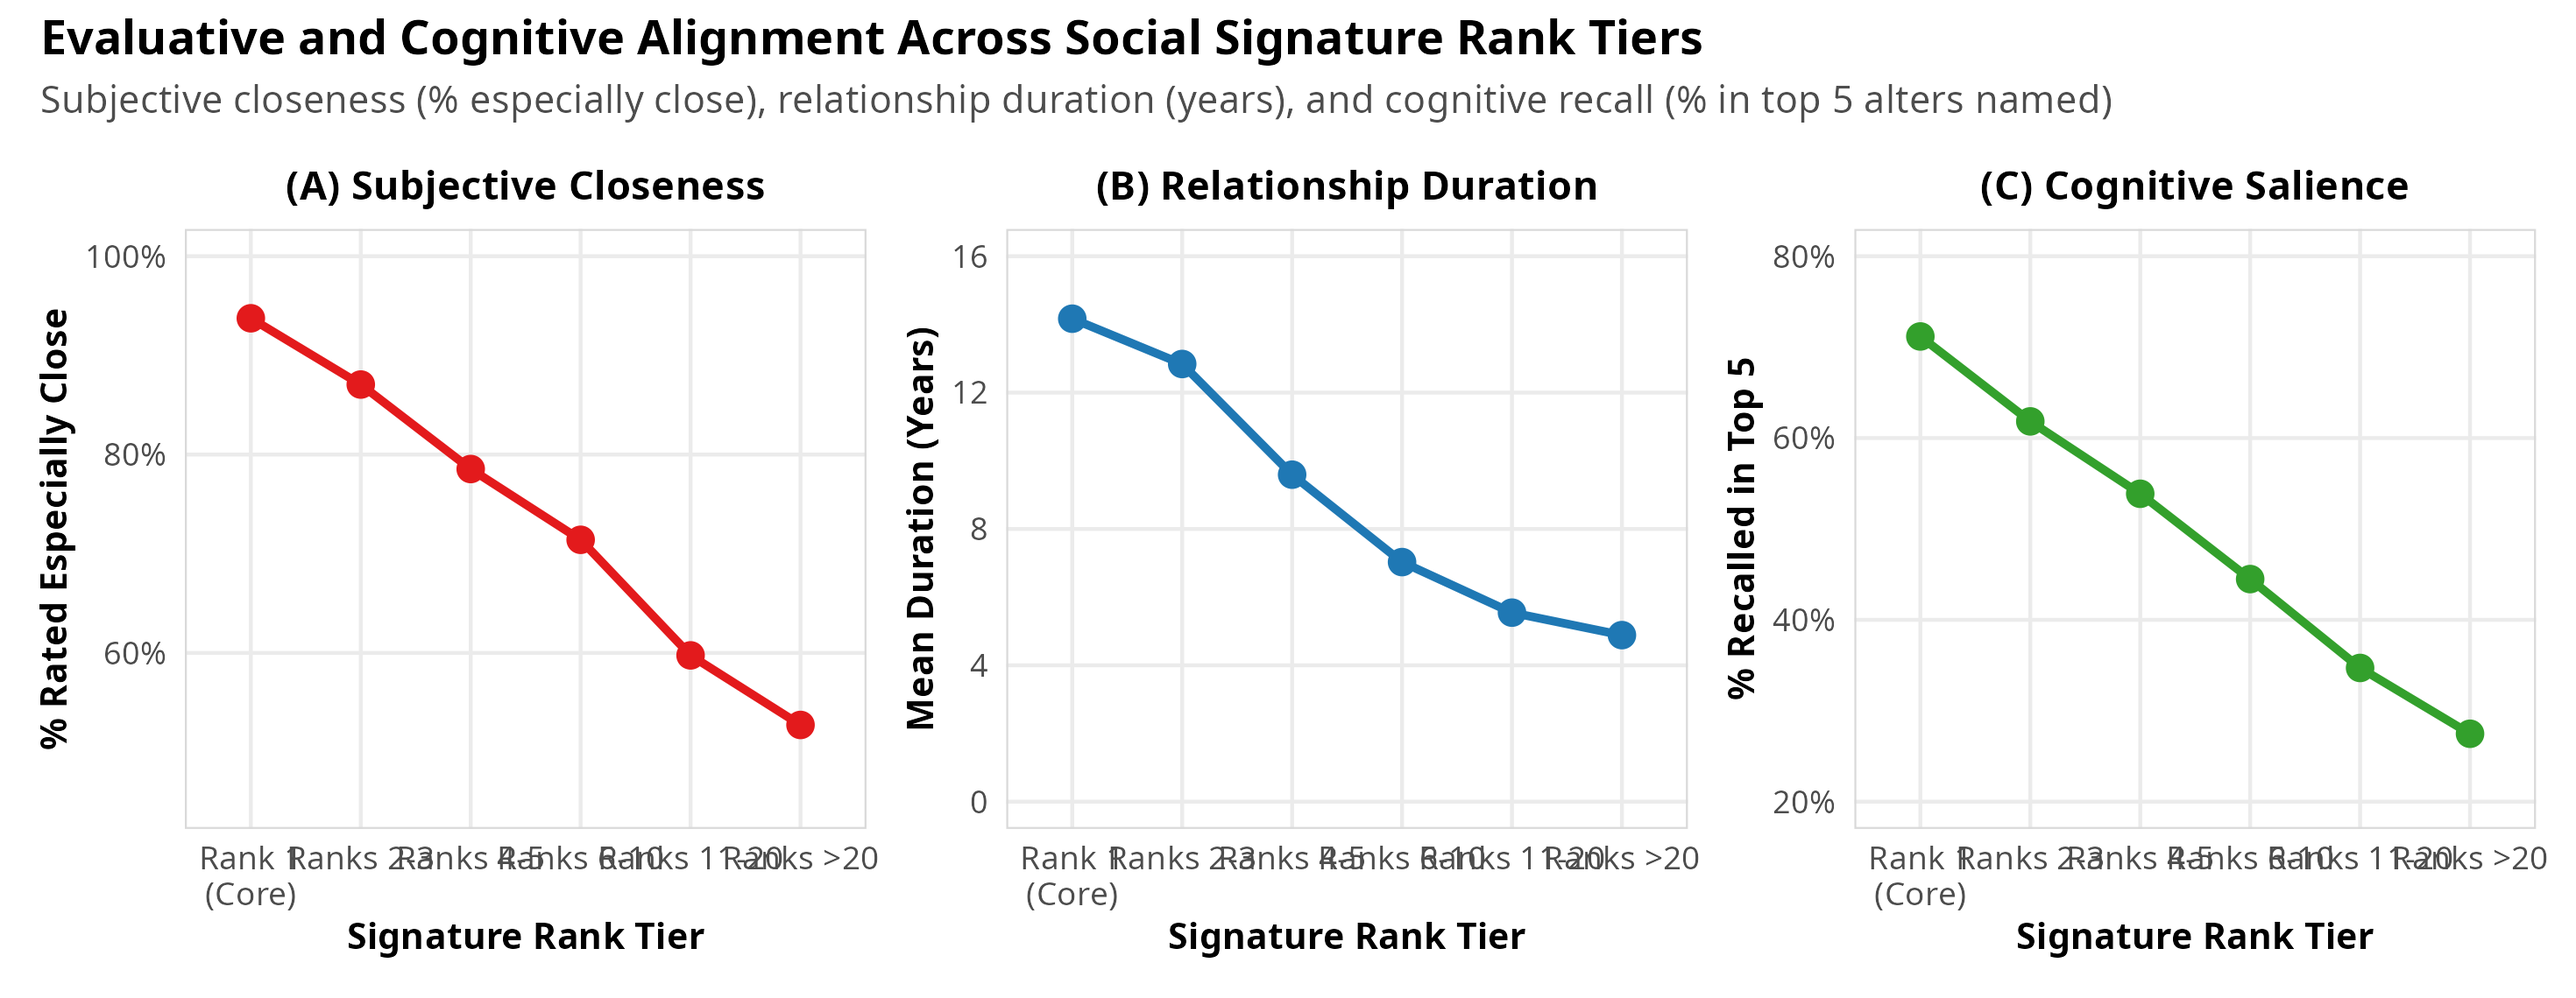
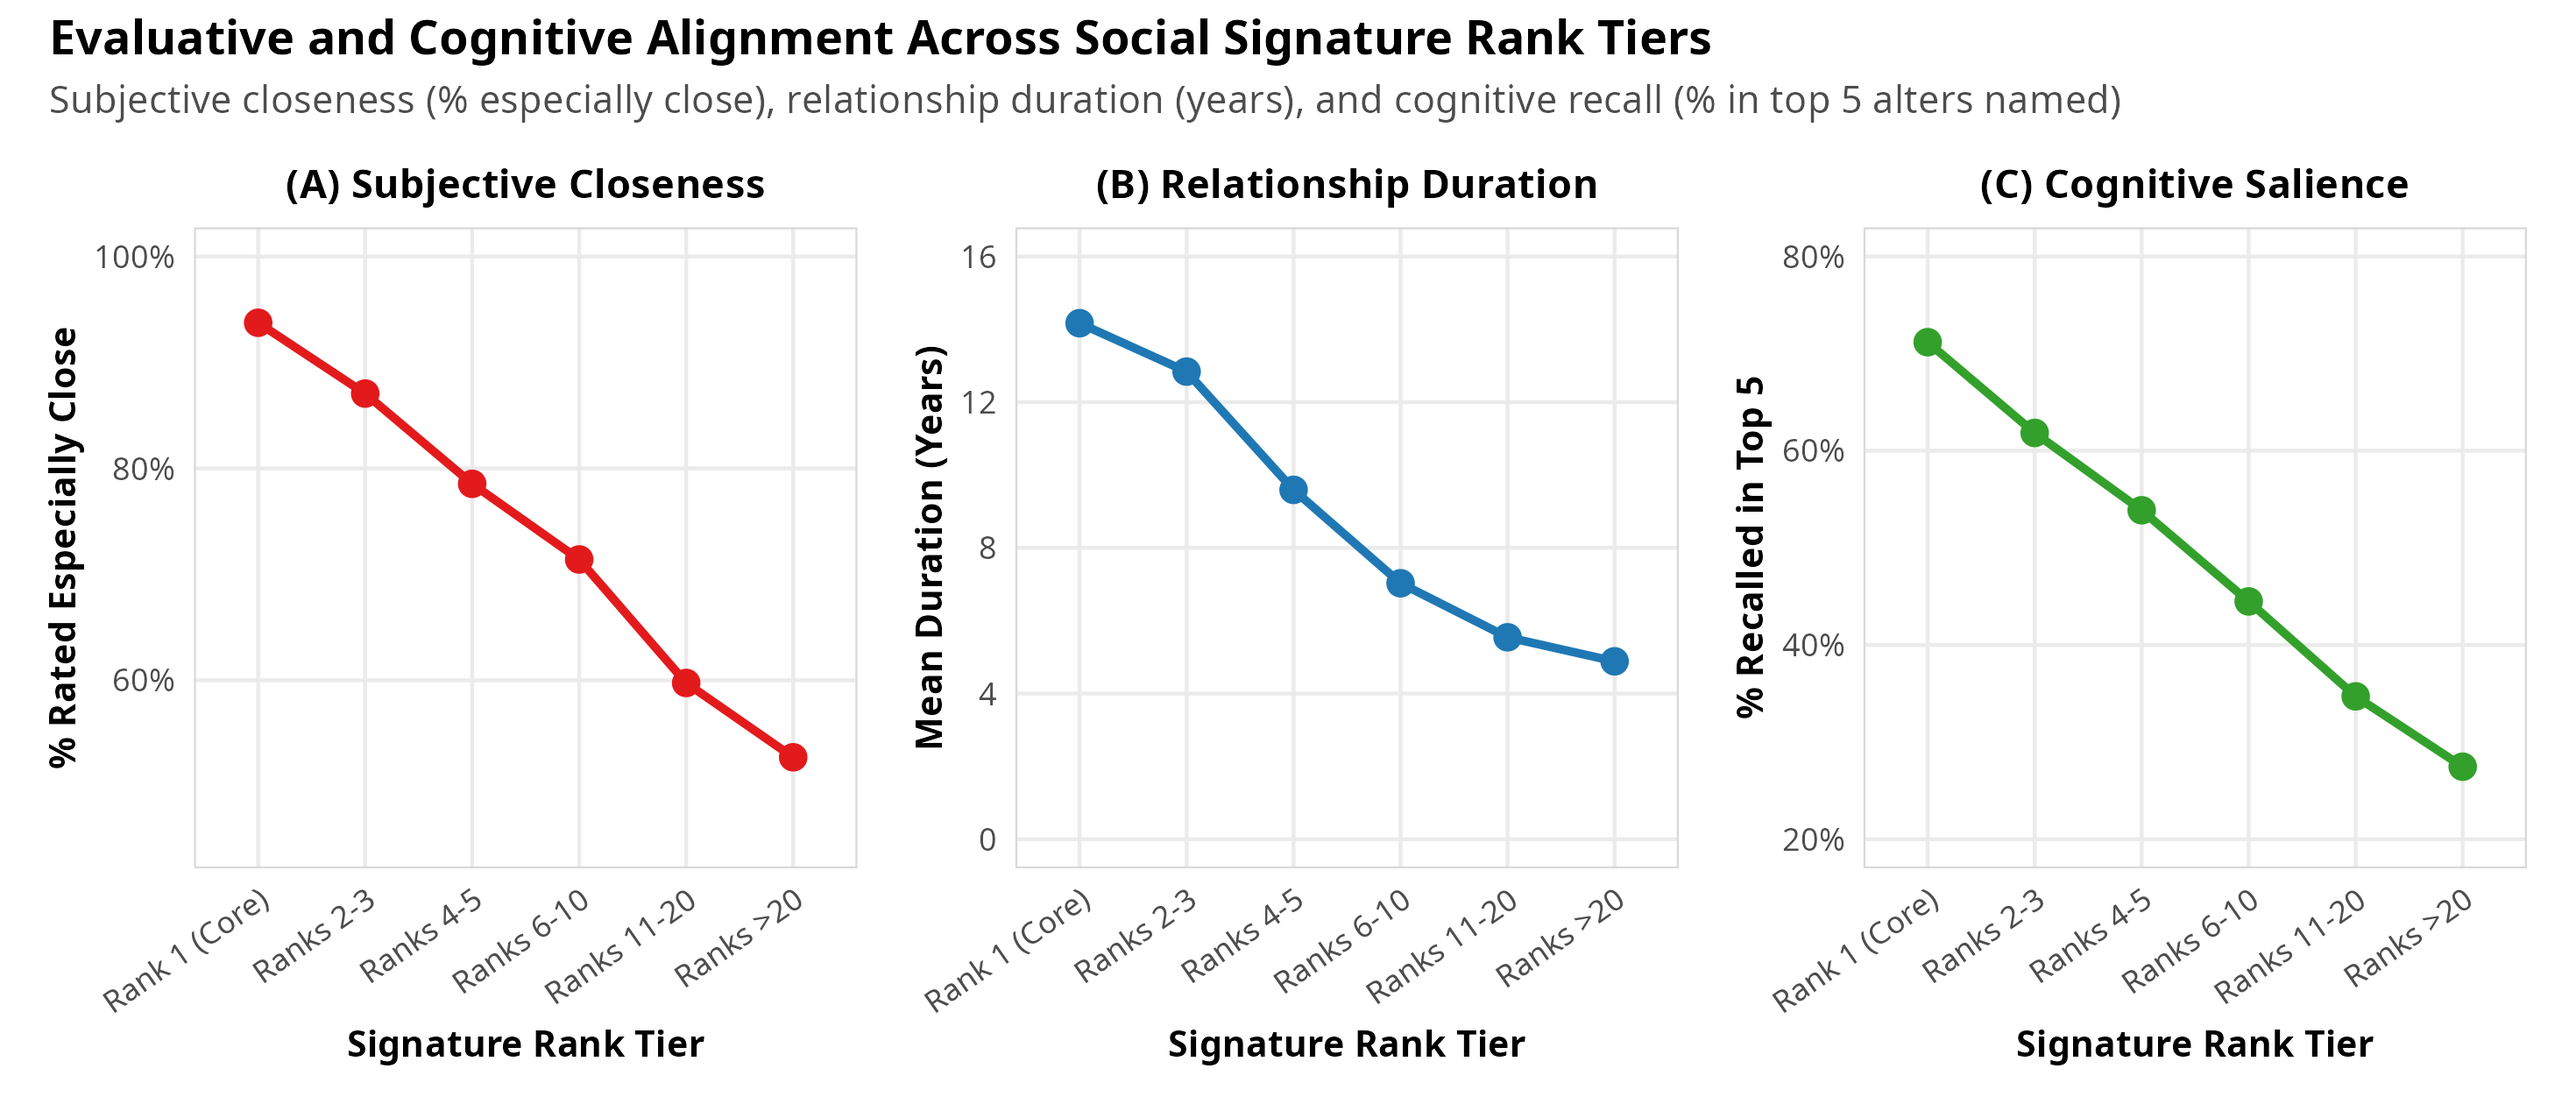
docs: clarify sample size funnel across analytical timescales and angle Figure 6 x-axis labels

diff --git a/manuscript.tex b/manuscript.tex
@@ -171,7 +171,7 @@ Our analytical design links five primary data streams. First, continuous communi
 \subsection{Temporal Window Definitions}
 To establish whether social signatures persist across differing temporal resolutions, we construct two complementary binning schemes. The first scheme relies on calendar-based windows spanning July 1, 2015 through June 30, 2017. This includes two academic years (July 2015--June 2016 and July 2016--June 2017), four collegiate semesters (Fall 2015, Spring 2016, Fall 2016, and Spring 2017), eight academic quarters (July--September, October--December, January--March, and April--June), and 24 consecutive calendar months. The second scheme evaluates week-based windows spanning July 6, 2015 through July 2, 2017 across 104 Monday-to-Sunday weeks. This includes 102 three-week rolling windows evaluated in one-week increments, 52 discrete two-week intervals, and 104 discrete one-week intervals.
 
-To ensure that estimated signatures reflect meaningful personal communication structures, egos are required to meet two standard inclusion criteria: (a) a minimum of 2 active alters in every window ($k_{i,w} \ge 2$), and (b) an average call volume exceeding 10 calls per window. When comparing across calendar definitions, we evaluate the common intersection cohort ($N = 147$ egos).
+To ensure that estimated signatures reflect meaningful personal communication structures, egos are required to meet two standard inclusion criteria: (a) a minimum of 2 active alters in every window ($k_{i,w} \ge 2$), and (b) an average call volume exceeding 10 calls per window. As summarized in Table~\ref{tab:cohort_summary}, while the overarching sensing pool comprises $N = 491$ unique egos with outgoing voice calls, the number of eligible participants naturally varies across timescales depending on the number of consecutive observation intervals required. The broadest calendar resolution (academic years, $W = 2$) retains $N = 388$ eligible egos. The collegiate semester timescale ($W = 4$) retains $N = 290$ participants, serving as our primary analytical sample for all subsequent dyadic, structural, and psychological modeling. Monthly and rolling weekly windows impose stricter longitudinal compliance across 24 to 104 intervals, retaining $N = 147$ and $N = 88$ egos respectively. When directly benchmarking stability metrics across calendar resolutions, we evaluate the common calendar cohort ($N = 147$ egos) present in all four schemes simultaneously.
 
 \begin{table}[htbp]
 \centering
@@ -325,7 +325,7 @@ To establish how long an individual must be observed before their estimated sign
 \section{The Relational Content of Social Signatures}
 
 \subsection{Role Relations and Dimensions of Social Support}
-While prior work on social signatures has treated communication ranks as purely behavioral tallies, we linked $N = 13,174$ call-ranked dyads to longitudinal network surveys recording relationship categories and dimensions of social support across six theoretical Dunbar tiers (Table~\ref{tab:support_tiers} and Figure~\ref{fig:support_tiers}).
+While prior work on social signatures has treated communication ranks as purely behavioral tallies, we linked the call records of the collegiate semester cohort ($N = 290$ egos) to the longitudinal network surveys. This linkage matched $N = 13,174$ call-ranked dyadic observations across 283 unique egos (7 egos nominated no active alters in the survey) to relationship categories and dimensions of social support across six theoretical Dunbar tiers (Table~\ref{tab:support_tiers} and Figure~\ref{fig:support_tiers}).
 
 \begin{table}[htbp]
 \centering

diff --git a/draft_manuscript.md b/draft_manuscript.md
@@ -48,7 +48,7 @@ To establish whether social signatures persist across differing temporal resolut
   - *2-Week Discrete Windows* (*W* = 52): Non-overlapping 14-day intervals.
   - *1-Week Discrete Windows* (*W* = 104): 7-day intervals.
 
-To ensure that estimated signatures reflect meaningful personal communication structures, egos are required to meet two standard inclusion criteria: (a) a minimum of 2 active alters in every window (*k* >= 2), and (b) an average call volume exceeding 10 calls per window. When comparing across calendar definitions, we evaluate the common intersection cohort (*N* = 147 egos).
+To ensure that estimated signatures reflect meaningful personal communication structures, egos are required to meet two standard inclusion criteria: (a) a minimum of 2 active alters in every window (*k* >= 2), and (b) an average call volume exceeding 10 calls per window. While the overarching sensing pool comprises *N* = 491 unique egos with outgoing calls, the number of eligible participants varies across timescales based on continuous observation requirements: Academic Years (*N* = 388), Semesters (*N* = 290), Quarters (*N* = 227), Months (*N* = 147), and Rolling Weekly Windows (*N* = 88). The collegiate semester timescale (*N* = 290 egos) serves as our primary analytical cohort for subsequent dyadic, panel, and personality modeling. When directly comparing across calendar resolutions, we evaluate the common calendar cohort (*N* = 147 egos) present in all four schemes simultaneously.
 
 {{TABLE_1}}
 **Table 1.** NetHealth Cohort Summary Across Temporal Window Definitions
@@ -124,7 +124,7 @@ These findings indicate that **6 months of continuous digital observation** prov
 ## 4. Theoretical Expansions
 
 ### 4.1 Grounding Communication Ranks in Dimensions of Social Support
-While prior literature has treated communication ranks as purely behavioral tallies, we linked *N* = 13,174 call-ranked dyads to longitudinal network surveys recording relationship categories and support functions across six theoretical Dunbar tiers:
+While prior literature has treated communication ranks as purely behavioral tallies, we linked the call records of the collegiate semester cohort (*N* = 290 egos) to the longitudinal network surveys. This matched *N* = 13,174 call-ranked dyadic observations across 283 unique egos (7 egos nominated no active alters in the survey) to relationship categories and support functions across six theoretical Dunbar tiers:
 
 {{TABLE_4}}
 **Table 4.** Relational Composition and Support Functions Across Signature Rank Tiers
